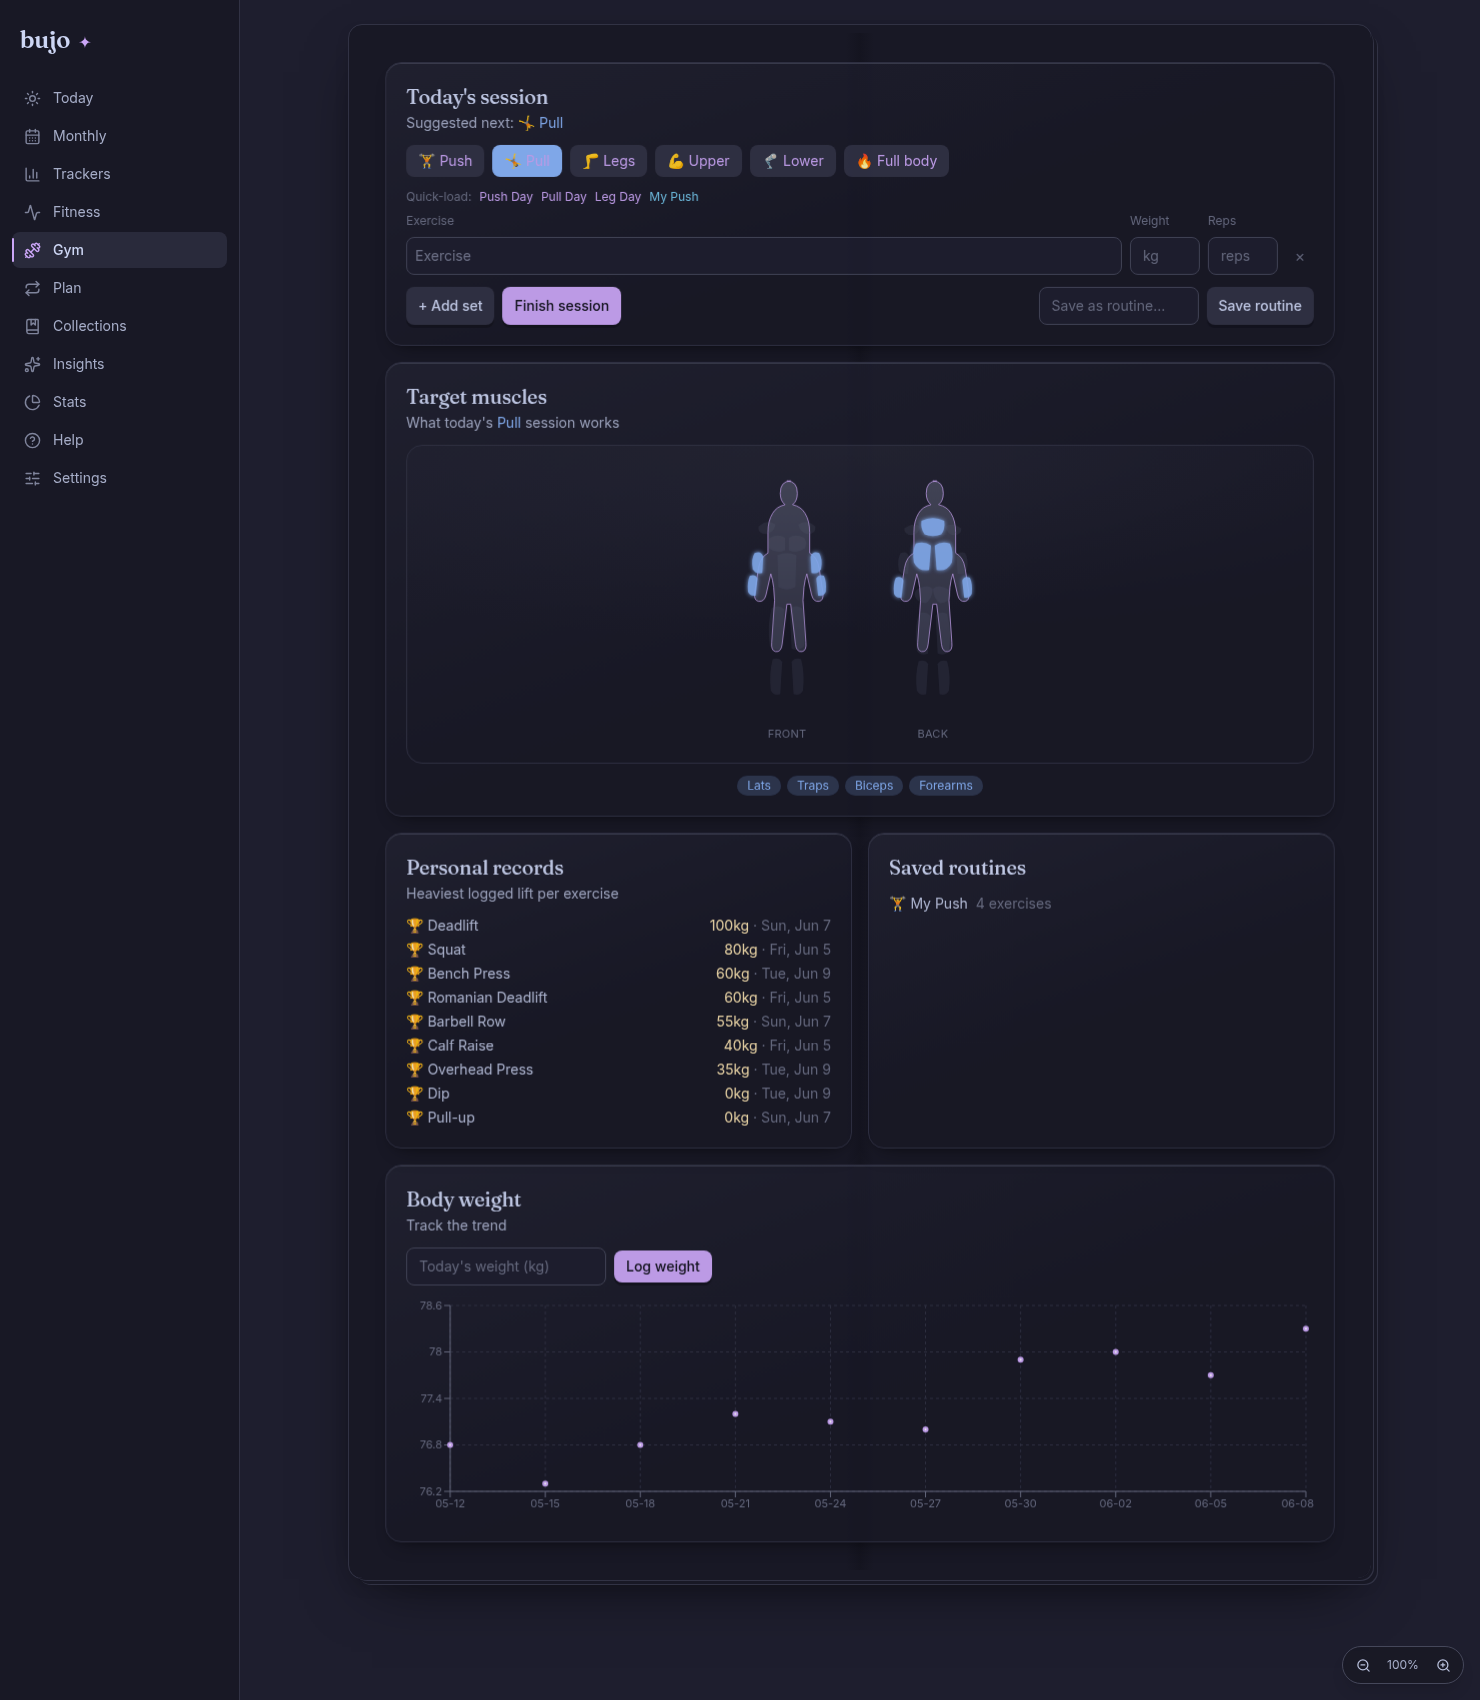
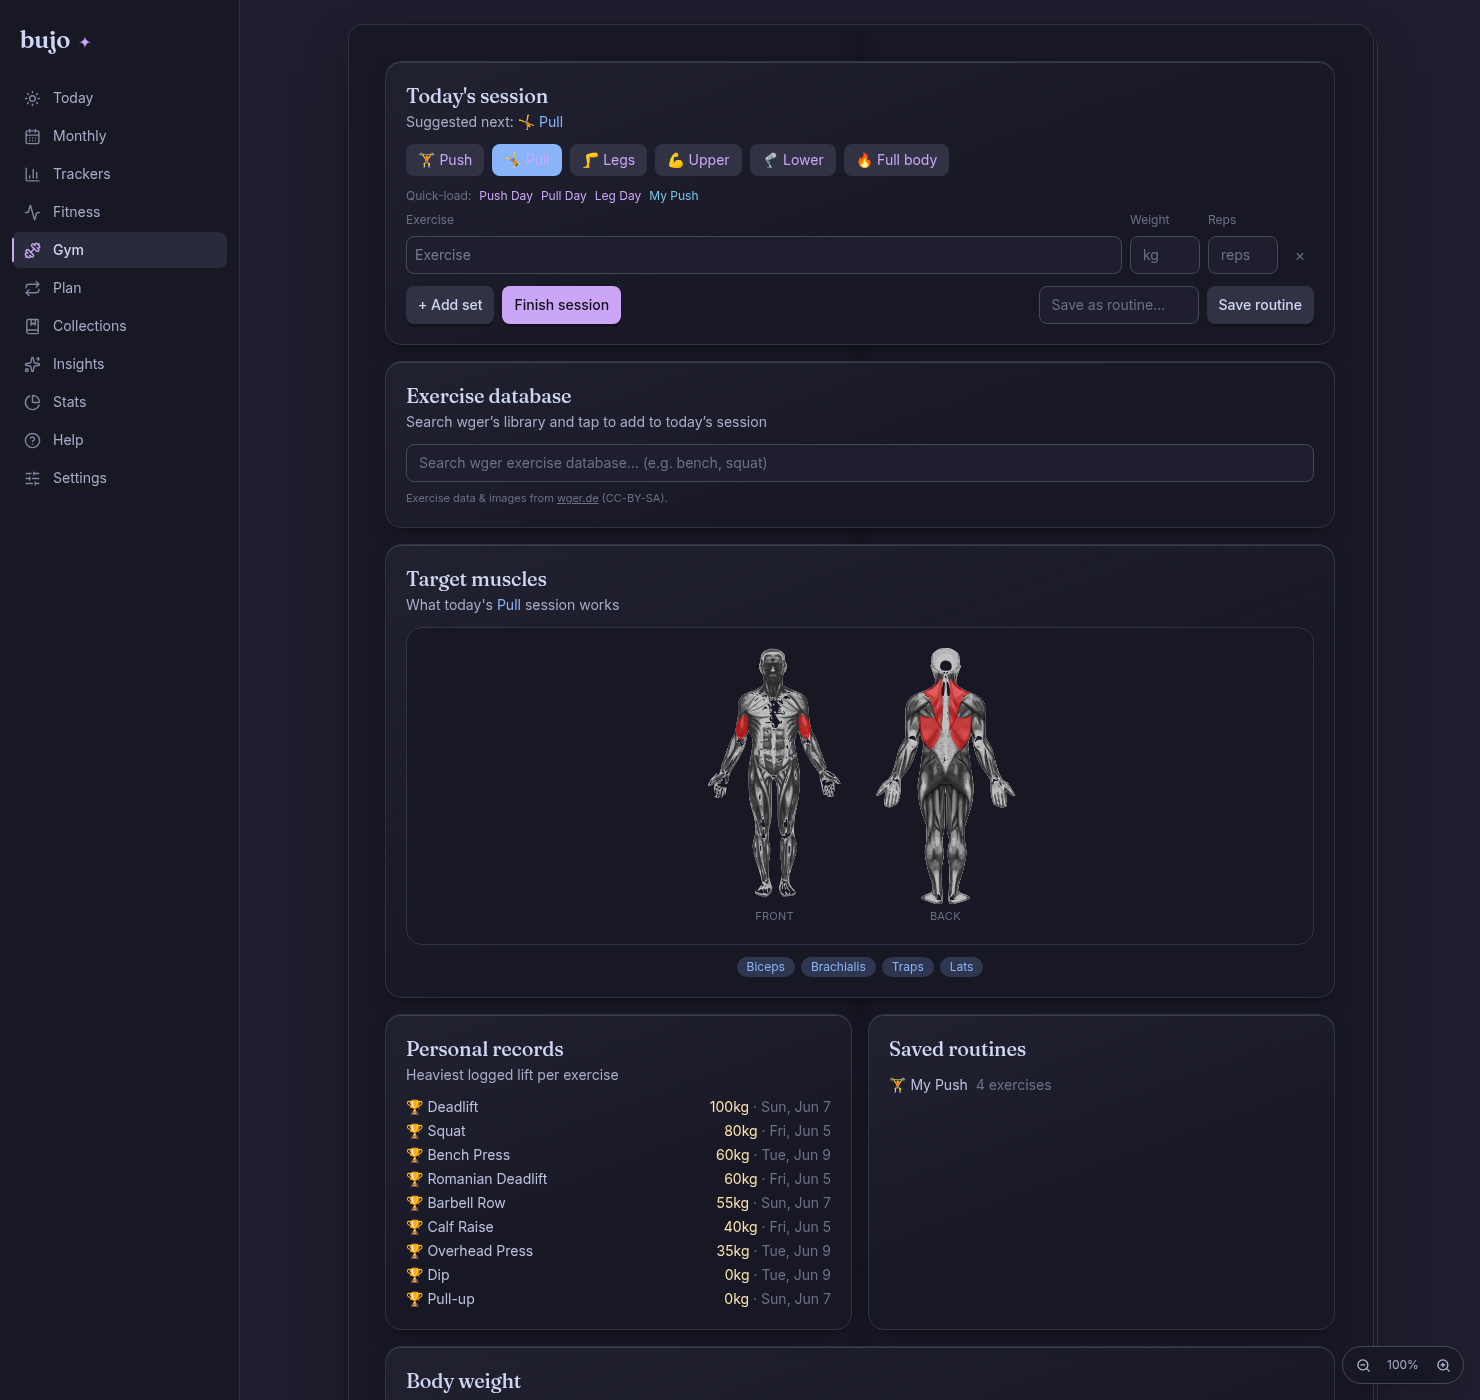
feat: replace hand-drawn muscle map with wger anatomical diagrams
Swap the amateur custom SVG figure for wger's real anatomical muscle
diagrams (base body + per-muscle highlight overlays, CC-BY-SA, loaded
from wger static assets). Graceful fallback when offline. Split→muscle
mapping and layout remain original. CREDITS updated accordingly.

diff --git a/src/components/MuscleMap.tsx b/src/components/MuscleMap.tsx
@@ -1,115 +1,95 @@
-import { useId } from 'react'
-import { cat } from '../lib/colors'
+import { useState } from 'react'
 import type { Split } from '../lib/types'
 
-// Which muscle regions each split targets ("where the pressure goes").
-const TARGETS: Record<Split, string[]> = {
-  push: ['chest', 'shoulders', 'triceps'],
-  pull: ['lats', 'traps', 'biceps', 'forearms'],
-  legs: ['quads', 'hamstrings', 'glutes', 'calves'],
-  upper: ['chest', 'shoulders', 'lats', 'traps', 'biceps', 'triceps', 'forearms'],
-  lower: ['quads', 'hamstrings', 'glutes', 'calves'],
-  full: ['chest', 'shoulders', 'lats', 'traps', 'biceps', 'triceps', 'forearms', 'quads', 'hamstrings', 'glutes', 'calves', 'abs'],
+// Professional anatomical muscle diagrams from wger (CC-BY-SA): a base body
+// image with per-muscle highlight overlays stacked on top — the same technique
+// wger uses on its own site. Credited in CREDITS.md / README.
+const WGER = 'https://wger.de/static/images/muscles'
+const BASE_FRONT = `${WGER}/muscular_system_front.svg`
+const BASE_BACK = `${WGER}/muscular_system_back.svg`
+const overlay = (id: number) => `${WGER}/main/muscle-${id}.svg`
+
+interface Muscle {
+  id: number
+  name: string
+  side: 'front' | 'back'
+}
+
+// wger's standard muscle ids.
+const MUSCLES: Muscle[] = [
+  { id: 2, name: 'Shoulders', side: 'front' },
+  { id: 4, name: 'Chest', side: 'front' },
+  { id: 1, name: 'Biceps', side: 'front' },
+  { id: 13, name: 'Brachialis', side: 'front' },
+  { id: 6, name: 'Abs', side: 'front' },
+  { id: 14, name: 'Obliques', side: 'front' },
+  { id: 3, name: 'Serratus', side: 'front' },
+  { id: 10, name: 'Quads', side: 'front' },
+  { id: 7, name: 'Calves', side: 'back' },
+  { id: 15, name: 'Soleus', side: 'back' },
+  { id: 9, name: 'Traps', side: 'back' },
+  { id: 12, name: 'Lats', side: 'back' },
+  { id: 5, name: 'Triceps', side: 'back' },
+  { id: 8, name: 'Glutes', side: 'back' },
+  { id: 11, name: 'Hamstrings', side: 'back' },
+]
+
+// Which muscle ids each split trains ("where the pressure goes").
+const TARGETS: Record<Split, number[]> = {
+  push: [4, 2, 5, 3],
+  pull: [12, 9, 1, 13],
+  legs: [10, 11, 8, 7, 15],
+  upper: [4, 2, 12, 9, 1, 5, 13, 3],
+  lower: [10, 11, 8, 7, 15],
+  full: [1, 2, 3, 4, 5, 6, 7, 8, 9, 10, 11, 12, 13, 14, 15],
   other: [],
 }
 
-// Smooth muscle overlays as SVG paths on a 120×270 sculpted figure.
-type Region = [muscle: string, d: string]
-
-const FRONT: Region[] = [
-  ['shoulders', 'M30 64 q9 -8 18 -2 q-2 9 -10 10 q-9 0 -8 -8z'],
-  ['shoulders', 'M90 64 q-9 -8 -18 -2 q2 9 10 10 q9 0 8 -8z'],
-  ['chest', 'M42 76 q9 -5 16 0 l0 13 q-9 4 -17 -2 q-3 -7 1 -11z'],
-  ['chest', 'M78 76 q-9 -5 -16 0 l0 13 q9 4 17 -2 q3 -7 -1 -11z'],
-  ['biceps', 'M26 92 q7 -3 9 4 l-1 17 q-7 2 -10 -4 q-2 -11 2 -17z'],
-  ['biceps', 'M94 92 q-7 -3 -9 4 l1 17 q7 2 10 -4 q2 -11 -2 -17z'],
-  ['forearms', 'M21 116 q6 -2 8 3 l-2 18 q-6 1 -8 -4 q-1 -11 2 -17z'],
-  ['forearms', 'M99 116 q-6 -2 -8 3 l2 18 q6 1 8 -4 q1 -11 -2 -17z'],
-  ['abs', 'M50 94 q10 -4 20 0 l-1 34 q-9 5 -18 0 z'],
-  ['quads', 'M44 150 q8 -4 13 1 l-2 42 q-8 3 -13 -3 q-3 -22 2 -40z'],
-  ['quads', 'M76 150 q-8 -4 -13 1 l2 42 q8 3 13 -3 q3 -22 -2 -40z'],
-  ['calves', 'M45 204 q7 -2 10 3 l-2 34 q-7 2 -10 -4 q-2 -18 2 -33z'],
-  ['calves', 'M75 204 q-7 -2 -10 3 l2 34 q7 2 10 -4 q2 -18 -2 -33z'],
-]
-
-const BACK: Region[] = [
-  ['traps', 'M48 58 q12 -6 24 0 q1 9 -3 14 q-9 4 -18 0 q-4 -6 -3 -14z'],
-  ['shoulders', 'M30 66 q9 -7 17 -2 q-2 8 -9 9 q-9 0 -8 -7z'],
-  ['shoulders', 'M90 66 q-9 -7 -17 -2 q2 8 9 9 q9 0 8 -7z'],
-  ['lats', 'M42 82 q9 -3 16 2 l-2 26 q-11 2 -16 -8 q-2 -12 2 -20z'],
-  ['lats', 'M78 82 q-9 -3 -16 2 l2 26 q11 2 16 -8 q2 -12 -2 -20z'],
-  ['triceps', 'M26 92 q7 -3 9 4 l-1 18 q-7 2 -10 -4 q-2 -12 2 -18z'],
-  ['triceps', 'M94 92 q-7 -3 -9 4 l1 18 q7 2 10 -4 q2 -12 -2 -18z'],
-  ['forearms', 'M21 118 q6 -2 8 3 l-2 18 q-6 1 -8 -4 q-1 -11 2 -17z'],
-  ['forearms', 'M99 118 q-6 -2 -8 3 l2 18 q6 1 8 -4 q1 -11 -2 -17z'],
-  ['glutes', 'M44 130 q11 -6 16 0 q-1 12 -8 15 q-9 -1 -11 -8 q-1 -4 3 -7z'],
-  ['glutes', 'M76 130 q-11 -6 -16 0 q1 12 8 15 q9 -1 11 -8 q1 -4 -3 -7z'],
-  ['hamstrings', 'M45 156 q8 -3 12 2 l-2 40 q-8 3 -12 -3 q-3 -20 2 -39z'],
-  ['hamstrings', 'M75 156 q-8 -3 -12 2 l2 40 q8 3 12 -3 q3 -20 -2 -39z'],
-  ['calves', 'M45 206 q7 -2 10 3 l-2 32 q-7 2 -10 -4 q-2 -17 2 -31z'],
-  ['calves', 'M75 206 q-7 -2 -10 3 l2 32 q7 2 10 -4 q2 -17 -2 -31z'],
-]
-
-// Clean humanoid silhouette as one cohesive path (head + torso + limbs).
-const SILHOUETTE =
-  'M60 16 q11 0 11 13 q0 8 -5 12 q9 2 13 9 q5 8 5 20 l0 22 q8 4 10 16 l4 26 q1 8 -4 9 q-6 1 -8 -7 l-5 -22 q-2 6 -3 14 l-1 14 l3 44 q1 9 -4 10 q-6 1 -7 -8 l-5 -42 l-4 0 l-5 42 q-1 9 -7 8 q-5 -1 -4 -10 l3 -44 l-1 -14 q-1 -8 -3 -14 l-5 22 q-2 8 -8 7 q-5 -1 -4 -9 l4 -26 q2 -12 10 -16 l0 -22 q0 -12 5 -20 q4 -7 13 -9 q-5 -4 -5 -12 q0 -13 11 -13z'
-
-function Figure({ regions, active, color, label }: { regions: Region[]; active: Set<string>; color: string; label: string }) {
-  const gid = useId().replace(/:/g, '')
+function Figure({ base, ids, label }: { base: string; ids: number[]; label: string }) {
+  const [ok, setOk] = useState(true)
+  if (!ok) {
+    return (
+      <div className="grid h-64 w-40 place-items-center rounded-xl border border-surface0 text-center text-xs text-overlay0">
+        Muscle diagram needs a connection
+      </div>
+    )
+  }
   return (
     <figure className="flex flex-col items-center gap-1">
-      <svg viewBox="0 0 120 270" className="h-64 w-auto" role="img" aria-label={`${label} muscles worked`}>
-        <defs>
-          <linearGradient id={`body-${gid}`} x1="0" y1="0" x2="0" y2="1">
-            <stop offset="0%" stopColor={cat('surface1')} />
-            <stop offset="100%" stopColor={cat('surface0')} />
-          </linearGradient>
-          <filter id={`glow-${gid}`} x="-40%" y="-40%" width="180%" height="180%">
-            <feGaussianBlur stdDeviation="2.2" result="b" />
-            <feMerge><feMergeNode in="b" /><feMergeNode in="SourceGraphic" /></feMerge>
-          </filter>
-        </defs>
-
-        {/* Sculpted silhouette with soft inner edge */}
-        <path d={SILHOUETTE} fill={`url(#body-${gid})`} stroke={cat('surface2')} strokeWidth="0.8" />
-
-        {/* Muscle overlays — inactive read as faint shading, active glow in accent */}
-        {regions.map(([m, d], i) => {
-          const on = active.has(m)
-          return (
-            <path
-              key={i}
-              d={d}
-              fill={on ? cat(color) : cat('overlay0')}
-              opacity={on ? 0.92 : 0.16}
-              filter={on ? `url(#glow-${gid})` : undefined}
-              style={{ transition: 'opacity 0.3s ease' }}
-            >
-              <title>{m}</title>
-            </path>
-          )
-        })}
-      </svg>
+      <div className="relative h-64">
+        <img src={base} alt={`${label} body`} onError={() => setOk(false)} className="h-64 w-auto opacity-90" />
+        {ids.map((id) => (
+          <img
+            key={id}
+            src={overlay(id)}
+            alt=""
+            aria-hidden
+            className="absolute top-0 left-0 h-64 w-auto"
+            style={{ filter: 'saturate(1.3)' }}
+            onError={(e) => ((e.target as HTMLImageElement).style.display = 'none')}
+          />
+        ))}
+      </div>
       <figcaption className="text-[11px] tracking-wide text-overlay0 uppercase">{label}</figcaption>
     </figure>
   )
 }
 
-/** The muscle names a split targets (for legends/chips). */
+/** The muscle names a split targets (for legend chips). */
 export function targetMuscles(split: Split): string[] {
-  return TARGETS[split] ?? []
+  const ids = new Set(TARGETS[split] ?? [])
+  return MUSCLES.filter((m) => ids.has(m.id)).map((m) => m.name)
 }
 
-/** Body map highlighting the muscles a split trains. */
-export function MuscleMap({ split, color = 'mauve' }: { split: Split; color?: string }) {
-  const active = new Set(TARGETS[split] ?? [])
+/** Anatomical body map highlighting the muscles a split trains. */
+export function MuscleMap({ split }: { split: Split; color?: string }) {
+  const ids = TARGETS[split] ?? []
+  const front = ids.filter((id) => MUSCLES.find((m) => m.id === id)?.side === 'front')
+  const back = ids.filter((id) => MUSCLES.find((m) => m.id === id)?.side === 'back')
   return (
-    <div
-      className="flex items-end justify-center gap-8 rounded-2xl border border-surface0 py-5"
-      style={{ background: `radial-gradient(120% 90% at 50% 0%, ${cat('surface0')}55, transparent 70%)` }}
-    >
-      <Figure regions={FRONT} active={active} color={color} label="Front" />
-      <Figure regions={BACK} active={active} color={color} label="Back" />
+    <div className="flex items-end justify-center gap-8 rounded-2xl border border-surface0 bg-mantle py-5">
+      <Figure base={BASE_FRONT} ids={front} label="Front" />
+      <Figure base={BASE_BACK} ids={back} label="Back" />
     </div>
   )
 }

diff --git a/CREDITS.md b/CREDITS.md
@@ -17,7 +17,7 @@ an issue and it will be corrected.
 | "EASY Minimalist BULLET JOURNAL Set Up 2025 \| HOW TO START" | https://www.youtube.com/watch?v=6_SqKVS_8pM | Minimalist monthly setup & beginner spread structure |
 | The Lazy Genius — "How to Bullet Journal" | https://www.thelazygeniuscollective.com/blog/how-to-bullet-journal | Index / future log / monthly log / signifiers / migration / threading / collections confirmation |
 | GRIT (by 8sujan6) | https://github.com/8sujan6/GRIT | Fitness feature set: fast set logging, custom routines, exercise library, personal records, body-metrics tracking, 100% offline |
-| wger | https://wger.de/en/software/features | Workout manager, exercise database, **nutrition / macro diary**, body-weight tracking, progress photos layout |
+| wger | https://wger.de/en/software/features · https://wger.de/en/exercise/overview/ | Workout manager, **exercise database (search + images)**, **anatomical muscle diagrams** (base body + per-muscle highlight SVGs), nutrition / macro diary, body-weight tracking |
 
 ## Dependencies (their own licenses)
 
@@ -47,5 +47,7 @@ an issue and it will be corrected.
 | Open-Meteo | https://open-meteo.com/ | Weather (no key) |
 | BigDataCloud reverse geocode | https://www.bigdatacloud.com/ | City label from coordinates |
 
-The muscle-map figures are an original stylised SVG drawn for this project and
-are not derived from wger's or GRIT's exercise images.
+The anatomical muscle diagrams shown in the Gym view are **wger's muscle SVG
+images** (base body + per-muscle overlays), loaded from wger's public static
+assets and used under **CC-BY-SA**. All surrounding code, layout, and the
+split→muscle mapping are original to this project.